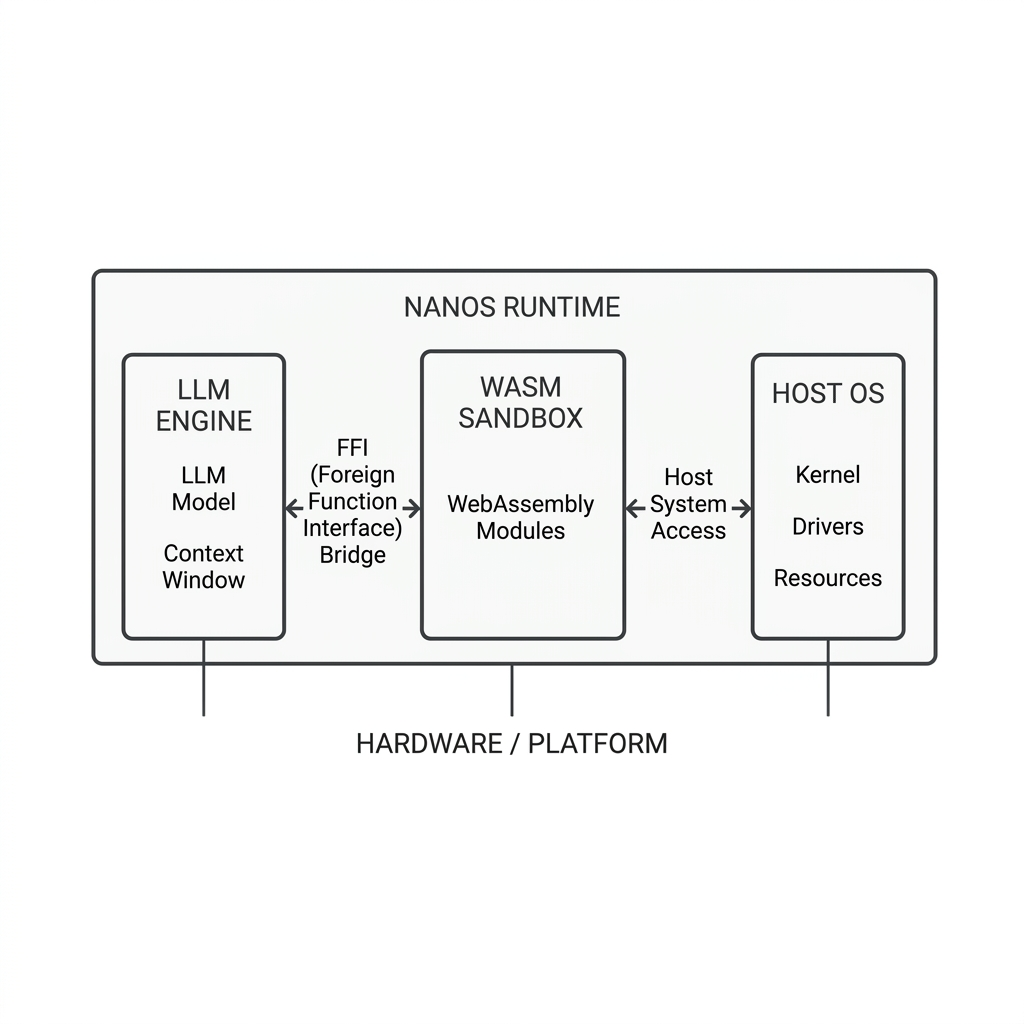
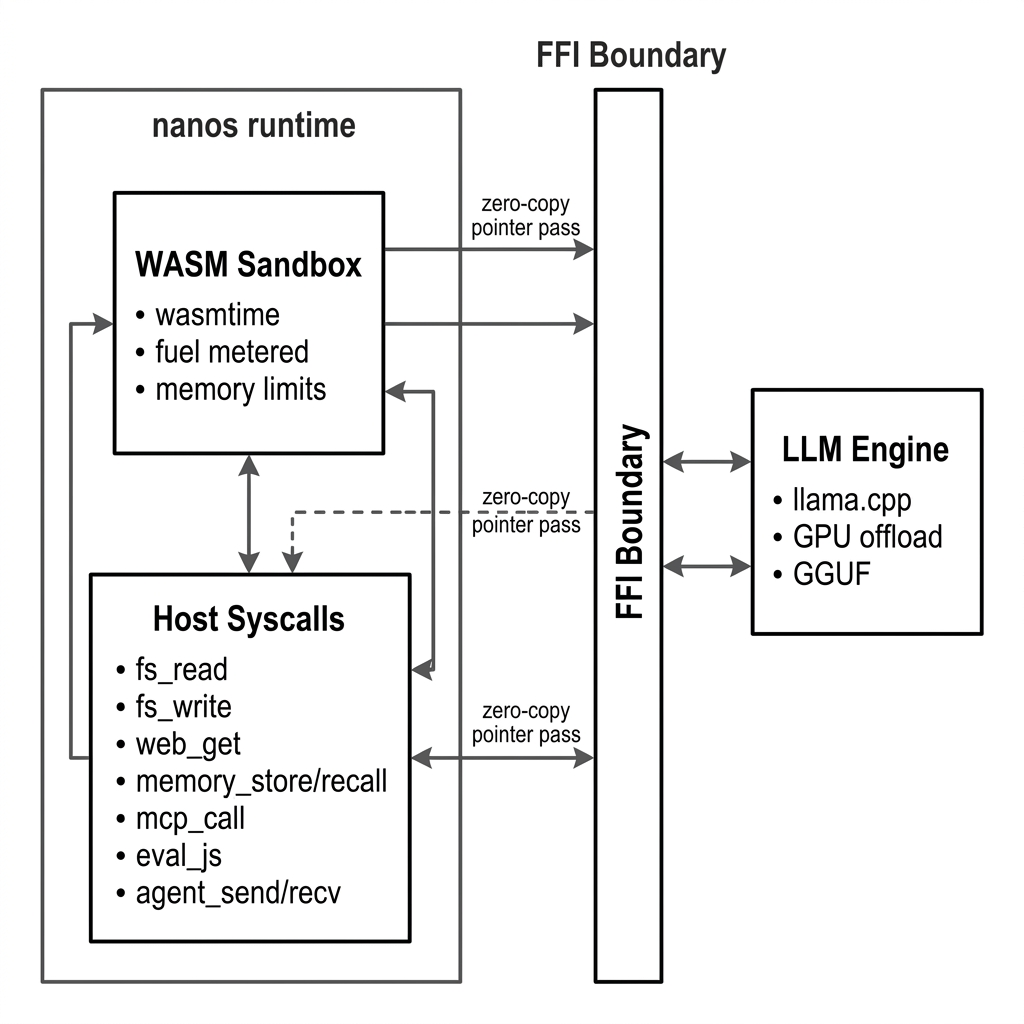
docs: replace mermaid diagram with custom premium white-background stack comparison image, and update architecture image to completed white-background diagram

Changed region(s): [[0.0312, 0.0312, 0.9688, 0.9688], [0.3438, 0.1875, 0.375, 0.2188]]

diff --git a/README.md b/README.md
@@ -42,32 +42,9 @@ Every arrow represents latency, memory consumption, and a larger attack surface.
 
 One binary. One process. No network. No serialization tax.
 
-```mermaid
-flowchart TD
-    subgraph "❌ Traditional Stack (Slow & Bloated)"
-        direction LR
-        A1[Docker<br>200MB] -->|Latency| A2[Python<br>2s boot]
-        A2 -->|Network| A3[MCP Server<br>HTTP]
-        A3 -->|JSON Parse| A4[LLM API<br>TCP Socket]
-    end
-
-    subgraph "⚡ nanos Stack (Instant & Native)"
-        direction LR
-        B1[nanos run<br>agent.nano] -->|< 50ms boot| B2[WASM Sandbox]
-        B2 -->|memory-mapped| B3[GPU Weights]
-        B3 -->|zero-copy| B4[FFI Tool Calls]
-    end
-
-    style A1 fill:#ff7675,color:#2d3436,stroke:none
-    style A2 fill:#ff7675,color:#2d3436,stroke:none
-    style A3 fill:#ff7675,color:#2d3436,stroke:none
-    style A4 fill:#ff7675,color:#2d3436,stroke:none
-
-    style B1 fill:#55efc4,color:#2d3436,stroke:none
-    style B2 fill:#55efc4,color:#2d3436,stroke:none
-    style B3 fill:#55efc4,color:#2d3436,stroke:none
-    style B4 fill:#55efc4,color:#2d3436,stroke:none
-```
+<p align="center">
+  <img src="assets/nanos_stack_comparison.png" alt="nanos Stack Comparison" width="750">
+</p>
 
 ---
 
@@ -76,7 +53,7 @@ flowchart TD
 Instead of isolated HTTP servers, `nanos` uses WebAssembly linear memory isolation. Tool calls pass raw memory pointers across the WASM boundary. A 1MB document and a 10-byte string cost exactly the same: **one pointer offset**.
 
 <p align="center">
-  <img src="assets/nanos_architecture.png" alt="nanos Architecture" width="600">
+  <img src="assets/nanos_architecture.png" alt="nanos Architecture" width="750">
 </p>
 
 ---